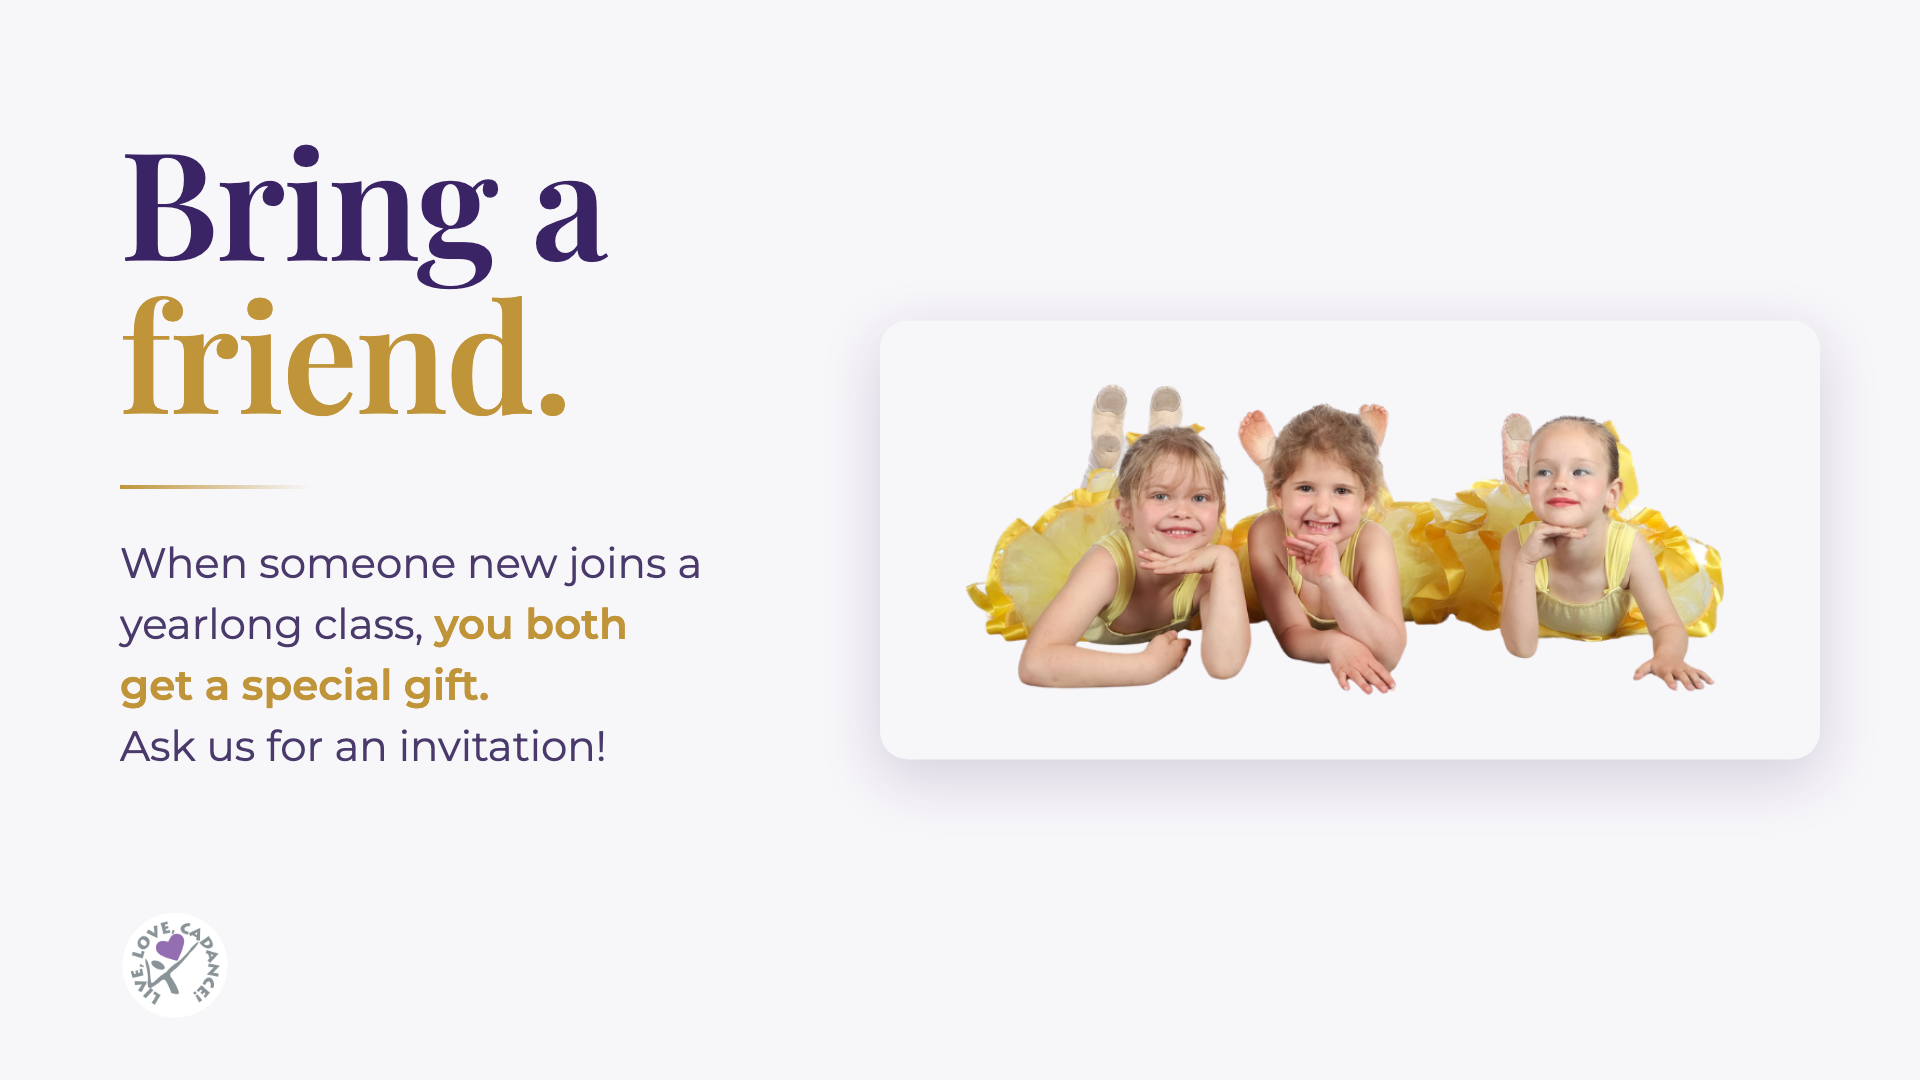
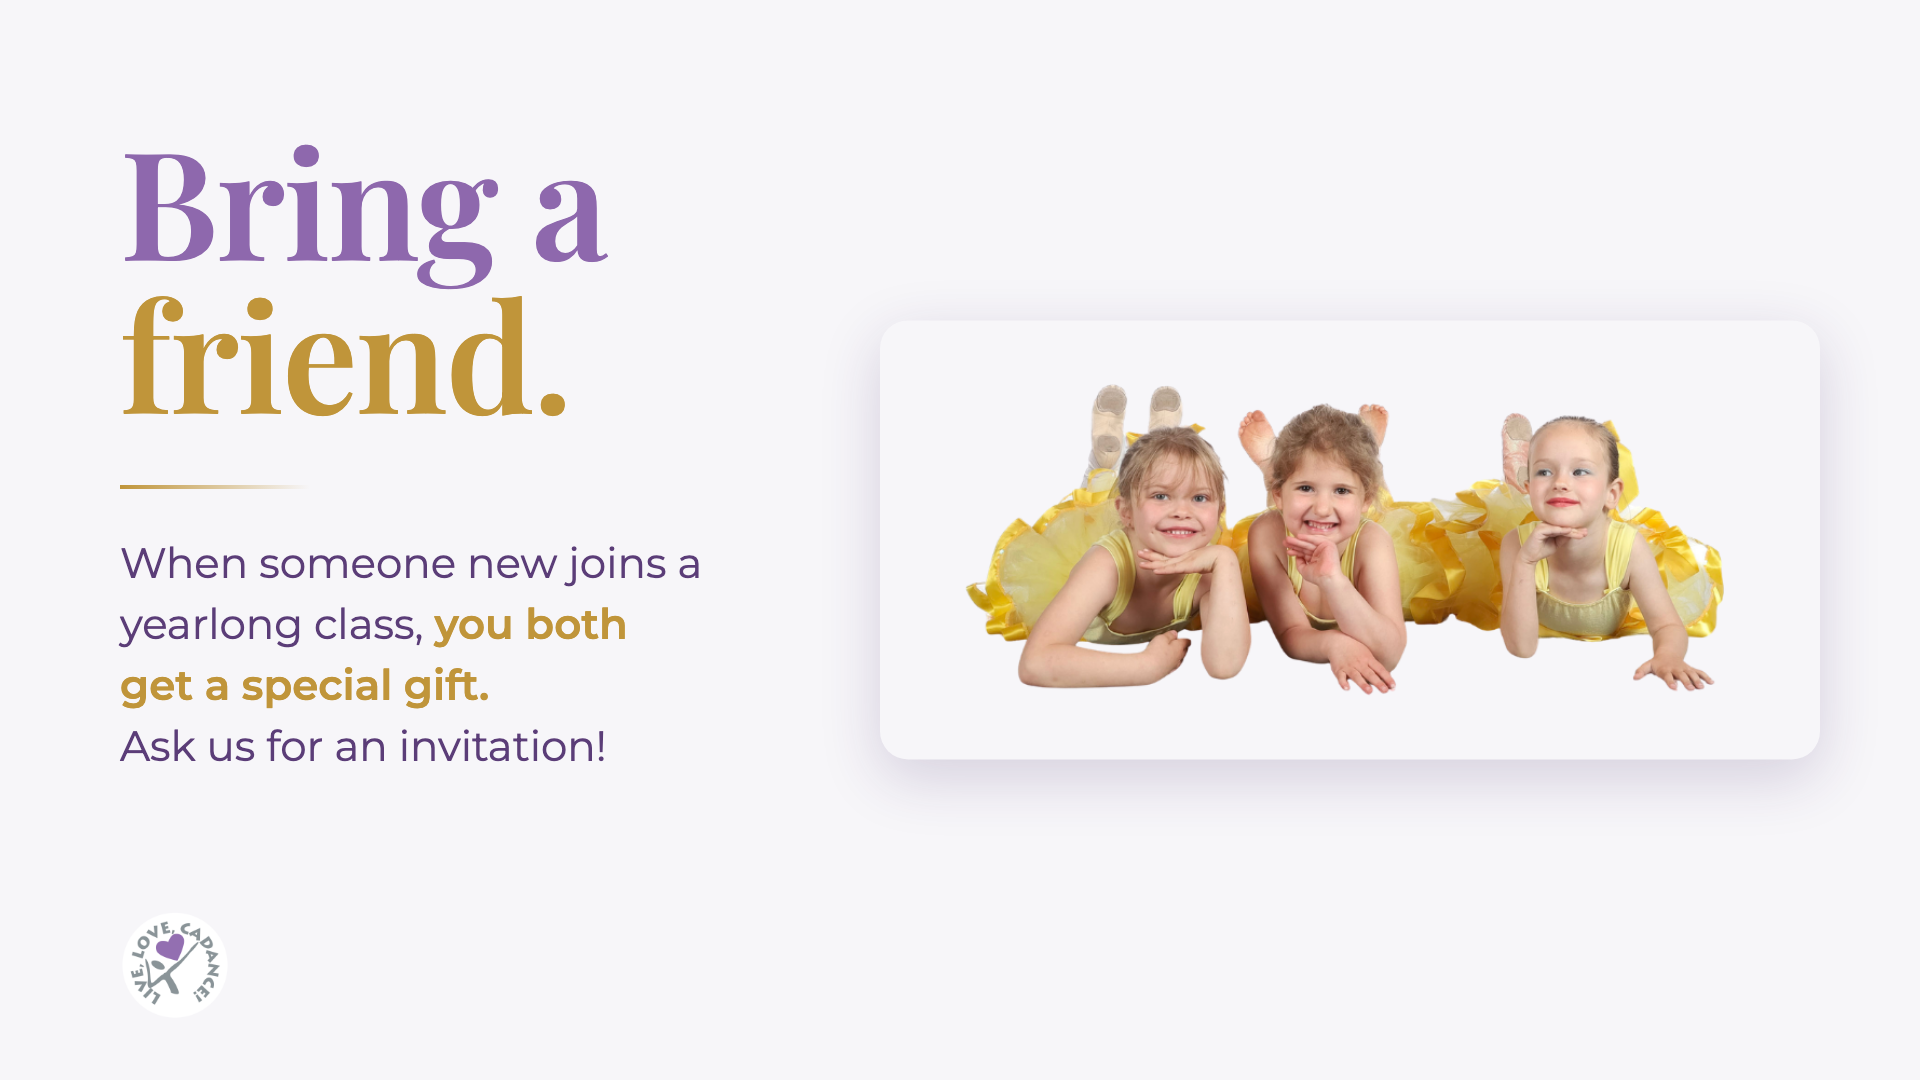
Update lobby TV slides 2026-10-17

Changed region(s): [[0.0625, 0.1222, 0.3125, 0.275]]

diff --git a/index.html b/index.html
@@ -5,7 +5,7 @@
 <meta name="viewport" content="width=device-width, initial-scale=1">
 <title>Cadance Lobby TV</title>
 <style>
-  :root { --bg: #f7f6f9; --ink: #3b2466; }
+  :root { --bg: #f7f6f9; --ink: #5b3d78; }
   html, body { margin: 0; height: 100%; background: var(--bg); overflow: hidden; cursor: none; }
   .stage { position: fixed; inset: 0; display: grid; place-items: center; }
   .slide { position: absolute; inset: 0; opacity: 0; transition: opacity .8s ease; display: grid; place-items: center; }
